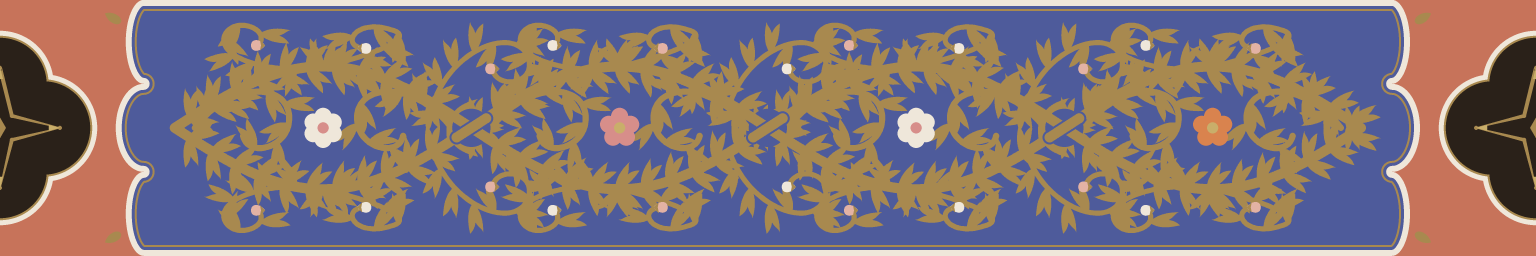
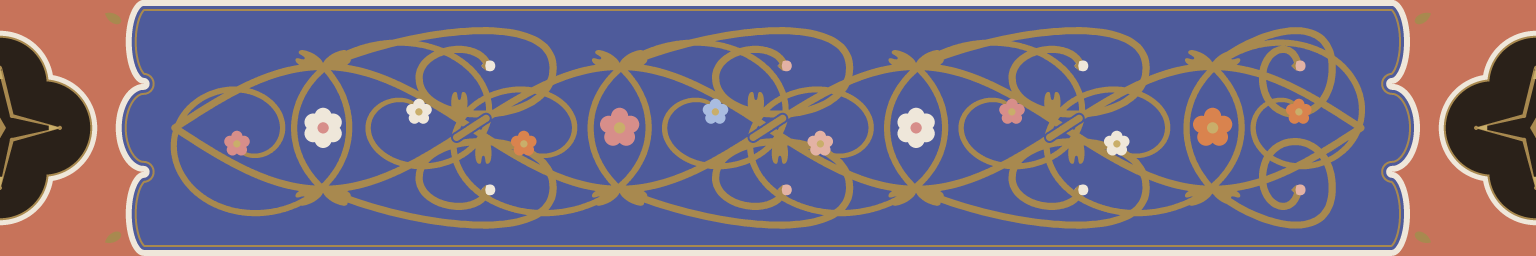
Lighten ornament scrolls and keep review PNGs out of Git [skip ci]
Replace dense pointed foliage with paired rounded palmettes, thinner interlace and tightening blossom volutes so more lapis stays visible. Preserve the fixed frames and caption geometry.

Measure coverage with and without the gold rulings. Total coverage is 26.23 percent for the band and 26.01 percent for the headpiece; ornament-only coverage is 24.26 and 23.26 percent. Keep the sparse foliage and avoid the crowding caused by larger coils.

Write the full review sheet outside the repository and retain a quality-85 JPEG preview at 1600 pixels wide.

diff --git a/tools/globe/ornament.py b/tools/globe/ornament.py
@@ -1,7 +1,7 @@
 """Draw the globe's Persian ornaments (Globe/) with offline Python geometry.
 
     python3 tools/globe/ornament.py
-    python3 tools/globe/ornament.py --sheet tools/globe/sheets/ornament-sheet.png
+    python3 tools/globe/ornament.py --sheet /tmp/ornament-sheet-r3.png
 
 The default run writes all four assets; --sheet also regenerates the review sheet.
 Only numpy, Pillow, scipy and the Python standard library are used. No source images,
@@ -13,15 +13,17 @@ fonts, lettering or network access are needed.
                quatrefoil has four circular lobes of radius 0.2 H, a 5 px white outline,
                an immediately inner 2 px gold rim, and a 4 px gold star with light-gold tips.
                Inside the panel's 6 px white outline, a 2 px gold rule follows after a
-               3 px lapis gap. Two 10 px gold sines in antiphase, amplitude 0.24 H, enclose
+               3 px lapis gap. Two 7 px gold sines in antiphase, amplitude 0.24 H, enclose
                four oval compartments. At the three internal centre-line crossings, the
-               top strand alternates; a 14 px lapis knockout leaves 2 px beside it.
+               top strand alternates; an 11 px lapis knockout leaves 2 px beside it.
                Each bay has a nominal 40 px khatai: alternating six white petals/rose heart
-               and five rose or orange petals/light-gold heart. Leafy C scrolls fill the
-               bays. Outward crest curls carry 14 px pink/white buds with gold calyces;
-               30 x 14 px split-palmette rumi grow at their roots and along the scrolls.
-               Secondary curls fill the outer spaces between crests. All ornamental
-               strokes are at least 3 px; the explicitly requested rules/gaps are 2 px.
+               and five rose or orange petals/light-gold heart. Each crest carries one
+               tightening 1.5-turn volute, tapering from 6 to 3 px, ending in a 26 px
+               five-petal blossom with a light-gold heart. Its colours cycle through
+               rose, white, orange, pale blue and pink. Outward crest curls each carry
+               one 14 px pink/white bud with a gold calyx. Rounded 28 x 16 px split
+               palmettes occur in pairs only at volute roots and stem crossings. All
+               ornamental strokes are at least 3 px; the requested rules/gaps are 2 px.
   fleuron.png  256 x 256, transparent RGBA, pointing up. A washed trefoil crowns a blue-ink
                stem and two hooked tendrils (minimum stroke 3 px). Alpha stays inside
                (56, 16)..(200, 244); the sheet places the actual bottom alpha edge on the ring.
@@ -33,9 +35,10 @@ fonts, lettering or network access are needed.
                gold stems join them to the cartouche. The three gold grounds use C9AE6A,
                deterministic +/-3% speckle in 3 px grains, a 4 px E3A08D pink outline,
                and a 2 px WHITE outer line. Black quarter-lobed corner spandrels reach
-               about 22% H and contain gold/pink sprigs. Mirrored interlaced leafy scrolls,
-               blossoms and shoulder sprigs remain at least 12 px from the cartouche;
-               only the two joining stems enter that margin. The gold interior is plain.
+               about 22% H and contain gold/pink sprigs with rounded leaves. Mirrored
+               interlaced scrolls, blossoms and shoulder sprigs remain at least 12 px
+               from the cartouche; only the two joining stems enter that margin.
+               The gold interior is plain.
                Cartouche inner text box, fractions (x0, y0, x1, y1):
                    (0.31, 0.31, 0.69, 0.69)
                Every pixel of this box is at least 12 px inside the gold fill.
@@ -46,15 +49,17 @@ Geometry is rasterised at 4x and box-filtered in premultiplied working colour, t
 with straight alpha and sRGB metadata. Coverage is measured before filtering, as visible
 area of gold and blossom colours divided by area inside the white outline. Both total
 coverage (including the inner gold rule) and ornament-only coverage are printed. The band
-requires both to lie in 40-45%; its seam columns and opaque alpha are checked. Headpiece
-coverage excludes the cartouche, pendants and black spandrels, counting only exposed lapis.
+requires total coverage to lie in 26-32%; its seam columns and opaque alpha are checked.
+Headpiece coverage excludes the cartouche, pendants and black spandrels, counting only exposed lapis.
+Its total coverage must also lie in 26-32%; the value without its field ruling is printed too.
 
 The optional 2112 x 2544 paper sheet contains, top to bottom: a bilinearly sampled app-scale
 polar wrap (inner radius 504 px, thickness 0.0685 radius, sixteen repeats), gold rings and
 48 outward fleurons; the whole band at 1:1; the whole headpiece at 1:1; a 360 x 160 px crop
 of that finished ring enlarged exactly 3x with nearest-neighbour; then fleurons at 256 and
 25 px, rosettes at 96 and 30 px, and the headpiece at its 360 x 45 px app size. The sheet
-contains no text and needs no globe data.
+contains no text and needs no globe data. With --sheet, the full PNG stays at the supplied
+path; tools/globe/ornament-sheet.jpg is a copy at most 1600 px wide, JPEG quality 85.
 """
 import argparse
 from pathlib import Path
@@ -134,12 +139,13 @@ class Drawing:
         self.image.paste((*rgb(fill), 255), mask=Image.fromarray(inner.astype('uint8') * 255))
         self.coverage.paste(255, mask=outer_mask)
 
-    def stroke(self, points, width, colour, end_width=None):
+    def stroke(self, points, width, colour, end_width=None, taper=1):
         points = np.asarray(points, float)
         tangent = np.gradient(points, axis=0)
         normal = np.column_stack((-tangent[:, 1], tangent[:, 0]))
         normal /= np.maximum(np.linalg.norm(normal, axis=1, keepdims=True), 1e-9)
-        widths = np.linspace(width, width if end_width is None else end_width, len(points))
+        progress = np.linspace(0, 1, len(points)) ** taper
+        widths = width + ((width if end_width is None else end_width) - width) * progress
         offset = normal * widths[:, None] / 2
         self.polygon(np.concatenate((points + offset, (points - offset)[::-1])), colour)
         segments = np.diff(points, axis=0)
@@ -175,12 +181,14 @@ def teardrop():
 
 
 def split_leaf():
-    """A 30 x 14 px bifurcated rumi, with a broad open notch."""
-    shape = bezier((0, 0), ((9, -7), (22, -7), (30, -6)),
-                   ((27, -6), (25, -2), (19, 0)),
-                   ((25, 1), (28, 4), (30, 6)),
-                   ((20, 7), (7, 7), (0, 0)))
-    shape[:, 1] *= 14 / np.ptp(shape[:, 1])
+    """A smooth 28 x 16 px split palmette: two round lobes and a round notch."""
+    shape = bezier((0, 0), ((0, -4), (8, -8), (17, -8)),
+                   ((23, -8), (28, -7), (28, -4)),
+                   ((28, -1), (20, -3), (20, 0)),
+                   ((20, 3), (28, 1), (28, 4)),
+                   ((28, 7), (23, 8), (17, 8)),
+                   ((8, 8), (0, 4), (0, 0)))
+    shape[:, 1] *= 16 / np.ptp(shape[:, 1])
     return shape
 
 
@@ -203,7 +211,7 @@ def bud(drawing, centre, angle, colour):
 
 
 def leafy_curve(drawing, points, width=5, spacing=23, sides=(-1, 1)):
-    """Secondary scrolls carry alternating full-size split palmettes."""
+    """A shoulder sprig with smooth, rounded split palmettes."""
     drawing.stroke(points, width, GOLD)
     arc = np.r_[0, np.cumsum(np.linalg.norm(np.diff(points, axis=0), axis=1))]
     for number, distance in enumerate(np.arange(16, arc[-1] - 10, spacing)):
@@ -217,12 +225,9 @@ def leafy_curve(drawing, points, width=5, spacing=23, sides=(-1, 1)):
             drawing.polygon(leaf, GOLD)
 
 
-def arabesque(drawing, start_x, end_x, middle_y=128, amplitude=61.44, compartments=4, flowers=True):
-    """Two antiphase sines, four oval bays, and outward leafy spiral tendrils.
-
-    Main stems are 10 px, secondary stems 5 px, and small branches at least 3 px.
-    A 14 px lapis knockout under a 10 px crossing gives exactly 2 px on each side.
-    """
+def arabesque(drawing, start_x, end_x, middle_y=128, amplitude=61.44, compartments=4,
+              flowers=True, outer_volutes=False):
+    """A 7 px interlace with one 6-to-3 px, 1.5-turn volute at every crest."""
     span = end_x - start_x
     step = span / compartments
     position = np.linspace(0, 1, 2401)
@@ -231,77 +236,60 @@ def arabesque(drawing, start_x, end_x, middle_y=128, amplitude=61.44, compartmen
                              middle_y + sign * amplitude * np.sin(phase)))
              for sign in (-1, 1)]
     for stem in stems:
-        # Paired rumi on the main stems build a dense, illuminated leafy braid.
-        leafy_curve(drawing, stem, width=10, spacing=26, sides=(-1,))
-        leafy_curve(drawing, stem, width=10, spacing=26, sides=(1,))
+        drawing.stroke(stem, 7, GOLD)
 
     for bay in range(compartments):
         centre_x = start_x + (bay + 0.5) * step
-        # The bays have two inward-facing leafy C scrolls around a 40 px blossom.
-        for side in (-1, 1):
-            curve = bezier((centre_x + side * (step / 2 - 20), middle_y),
-                           ((centre_x + side * 95, middle_y - 45),
-                            (centre_x + side * 37, middle_y - 47),
-                            (centre_x + side * 34, middle_y - 12)),
-                           ((centre_x + side * 32, middle_y + 20),
-                            (centre_x + side * 75, middle_y + 31),
-                            (centre_x + side * 80, middle_y + 8)))
-            leafy_curve(drawing, curve, width=6, spacing=22)
         for outward in (-1, 1):
             root = (centre_x, middle_y + outward * amplitude)
+            # An elliptic Archimedean spiral makes exactly 1.5 tightening turns.
+            # Rotate the lower band volute; reflect headpiece volutes into its two
+            # narrow blue margins above and below the pendants.
+            progress = np.linspace(0, 1, 721)
+            initial_angle = 2.47 if outer_volutes else -0.8
+            angle = initial_angle + 3 * np.pi * progress
+            radius = 1 - 0.90 * progress
+            edge_volute = ((bay == 0 and outward == -1)
+                            or (bay == compartments - 1 and outward == 1))
+            radii = np.array((204 * step / 296.5, 30) if outer_volutes else
+                             ((112.5 if edge_volute else 125) * step / 296.5, 98))
+            centre = np.array((0, -amplitude)) - radii * (np.cos(initial_angle), np.sin(initial_angle))
+            spiral = centre + radii * radius[:, None] * np.column_stack((np.cos(angle), np.sin(angle)))
+            spiral *= (1 if outer_volutes else -outward, -outward)
+            spiral += (centre_x, middle_y)
+            drawing.stroke(spiral, 6, GOLD, end_width=3, taper=4)
+            blossom(drawing, spiral[-1],
+                    (ROSE, WHITE, ORANGE, PALE_BLUE, PINK)[(2 * bay + (outward == 1)) % 5],
+                    diameter=26)
             # A broad curl returns into the outer margin and ends in a small bud.
-            curve = bezier(root,
-                           ((centre_x + 42, root[1] + outward * 9),
-                            (centre_x + 99, root[1] + outward * 29),
-                            (centre_x + 67, root[1] + outward * 37)),
-                           ((centre_x + 31, root[1] + outward * 48),
-                            (centre_x + 17, root[1] + outward * 20),
-                            (centre_x + 41, root[1] + outward * 18)))
-            leafy_curve(drawing, curve, width=5, spacing=24, sides=(-outward,))
-            for sign in (-1, 1):
-                drawing.polygon(transform(split_leaf(), root,
-                                          np.pi / 2 * outward + sign * 0.65), GOLD)
+            curve = bezier((0, -amplitude),
+                           ((90, -100), (230, -118), (230, -60)),
+                           ((230, 0), (96, 0), (96, -50)),
+                           ((96, -80), (155, -90), (165, -62)))
+            curve[:, 0] *= (0.52 if bay == compartments - 1 else 1) * step / 296.5
+            curve[:, 1] *= -outward
+            curve += (centre_x, middle_y)
+            drawing.stroke(curve, 7, GOLD)
+            for angle in (outward * 0.4, np.pi - outward * 0.4):
+                drawing.polygon(transform(split_leaf(), root, angle), GOLD)
             bud(drawing, curve[-1], 0, PINK if bay % 2 else WHITE)
-            # A countercurl fills the otherwise empty outer half of each compartment.
-            counter = bezier((centre_x - 8, root[1]),
-                             ((centre_x - 47, root[1] - outward * 9),
-                              (centre_x - 109, root[1] + outward * 8),
-                              (centre_x - 98, root[1] + outward * 32)),
-                             ((centre_x - 88, root[1] + outward * 51),
-                              (centre_x - 51, root[1] + outward * 37),
-                              (centre_x - 65, root[1] + outward * 21)))
-            leafy_curve(drawing, counter, width=5, spacing=22, sides=(outward,))
-            bud(drawing, counter[-1], np.pi, WHITE if bay % 2 else PINK)
         if flowers:
             blossom(drawing, (centre_x, middle_y),
                     WHITE if bay % 2 == 0 else (ROSE, ORANGE, PALE_BLUE)[(bay // 2) % 3],
                     petals=6 if bay % 2 == 0 else 5)
-    # Branch into the open upper/lower spaces between successive crest tendrils.
+    # One pair of rounded leaves at each crossing, outside the open underpass.
     for crossing in range(1, compartments):
         centre = start_x + crossing * step
-        root_y = amplitude * abs(np.sin(np.pi * (crossing - 38 / step)))
-        for outward in (-1, 1):
-            scroll = bezier((centre - 38, middle_y + outward * root_y),
-                            ((centre - 20, middle_y + outward * 80),
-                             (centre + 45, middle_y + outward * 103),
-                             (centre + 57, middle_y + outward * 70)),
-                            ((centre + 65, middle_y + outward * 43),
-                             (centre + 25, middle_y + outward * 38),
-                             (centre + 21, middle_y + outward * 59)))
-            leafy_curve(drawing, scroll, width=5, spacing=24, sides=(outward,))
-            bud(drawing, scroll[-1], np.pi, PINK if crossing % 2 else WHITE)
-    # Open the crossings, then restore both strands and the alternating 2 px underpass.
-    # Keeping foliage out of these small discs makes the braid legible at app scale.
-    for crossing in range(1, compartments):
-        drawing.dot((start_x + crossing * step, middle_y), 19, LAPIS)
-    for stem in stems:
-        drawing.stroke(stem, 10, GOLD)
+        for side in (-1, 1):
+            root = (centre + side * 12, middle_y + side * amplitude * np.sin(12 * np.pi / step))
+            drawing.polygon(transform(split_leaf(), root, np.pi / 2 if side == 1 else -np.pi / 2), GOLD)
+    # Preserve the alternating strands and exactly 2 px of lapis beside the top one.
     for crossing in range(1, compartments):
         centre = start_x + crossing * step
         top = stems[crossing % 2]
         local = top[np.abs(top[:, 0] - centre) <= 15]
-        drawing.stroke(local, 14, LAPIS)
-        drawing.stroke(local, 10, GOLD)
+        drawing.stroke(local, 11, LAPIS)
+        drawing.stroke(local, 7, GOLD)
 
 
 def colour_mask(drawing, colours):
@@ -365,7 +353,7 @@ def band():
     decoration = colour_mask(ornaments, (GOLD, GOLD_LIGHT, WHITE, ROSE, ORANGE, PALE_BLUE, PINK)) & visible
     ornament_coverage = np.count_nonzero(decoration & interior) / np.count_nonzero(interior)
     coverage = np.count_nonzero((decoration | ruling) & interior) / np.count_nonzero(interior)
-    if not (0.40 <= ornament_coverage <= coverage <= 0.45) or clearance < 3:
+    if not (0.26 <= coverage <= 0.32) or clearance < 3:
         raise ValueError(f'panel decoration: {coverage:.2%} coverage, '
                          f'{ornament_coverage:.2%} without ruling, {clearance:.2f} px clearance')
     image = box_rgba(drawing.image)
@@ -474,13 +462,14 @@ def headpiece():
     reserved = central_mask.copy()
     ornaments = Drawing((width, height))
     # Draw whole side scrolls rather than clipping scroll fragments around the cartouche.
-    arabesque(ornaments, 28, 466, compartments=2, flowers=False)
     for upper in (True, False):
         shoulder = bezier((452, 49), ((505, 23), (557, 17), (610, 29)))
         if not upper:
             shoulder[:, 1] = height - shoulder[:, 1]
         leafy_curve(ornaments, shoulder, width=5, spacing=35, sides=(-1 if upper else 1,))
         bud(ornaments, shoulder[-1], 0, PINK)
+    # Keep the volute blossoms above the shoulder foliage where the two meet.
+    arabesque(ornaments, 28, 466, compartments=2, flowers=False, outer_volutes=True)
     blossom(ornaments, (90, 128), WHITE, petals=6)
     blossom(ornaments, (451, 128), PALE_BLUE)
     ornaments.image.alpha_composite(ornaments.image.transpose(Image.Transpose.FLIP_LEFT_RIGHT))
@@ -529,6 +518,9 @@ def headpiece():
     coverage = np.count_nonzero(decoration & lapis_region) / np.count_nonzero(lapis_region)
     decoration &= ~((edge >= 9) & (edge < 11))
     ornament_coverage = np.count_nonzero(decoration & lapis_region) / np.count_nonzero(lapis_region)
+    if not 0.26 <= coverage <= 0.32:
+        raise ValueError(f'headpiece field decoration: {coverage:.2%} coverage, '
+                         f'{ornament_coverage:.2%} without ruling')
     x0, y0, x1, y1 = TEXT_BOX
     text_clearance = cartouche_distance[int(y0 * height * SCALE):int(y1 * height * SCALE),
                                        int(x0 * width * SCALE):int(x1 * width * SCALE)].min() - 6
@@ -635,7 +627,14 @@ def main():
                         (heading, 'headpiece.png')):
         save(image, OUT / name)
     if args.sheet:
-        save(review_sheet(tile, finial, marker, heading), args.sheet)
+        sheet = review_sheet(tile, finial, marker, heading)
+        save(sheet, args.sheet)
+        preview = sheet.convert('RGB')
+        preview.thumbnail((1600, sheet.height), Image.Resampling.LANCZOS)
+        preview_path = ROOT / 'tools/globe/ornament-sheet.jpg'
+        preview.save(preview_path, quality=85, subsampling=0)
+        print(f'wrote {preview_path.relative_to(ROOT)} '
+              f'({preview.width} x {preview.height}, JPEG quality 85)')
 
 
 if __name__ == '__main__':
